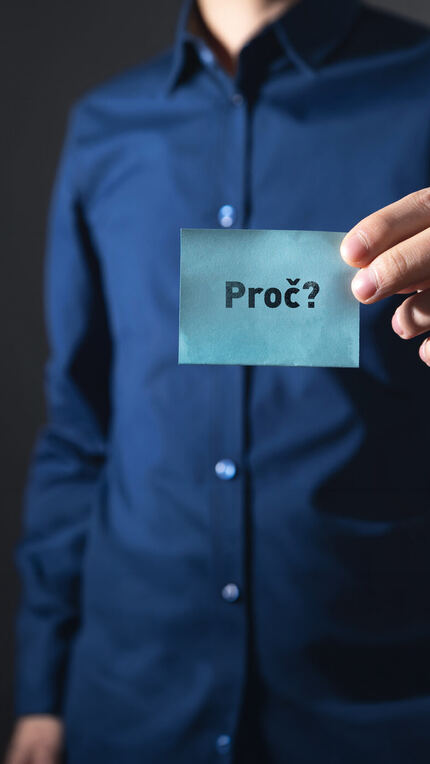
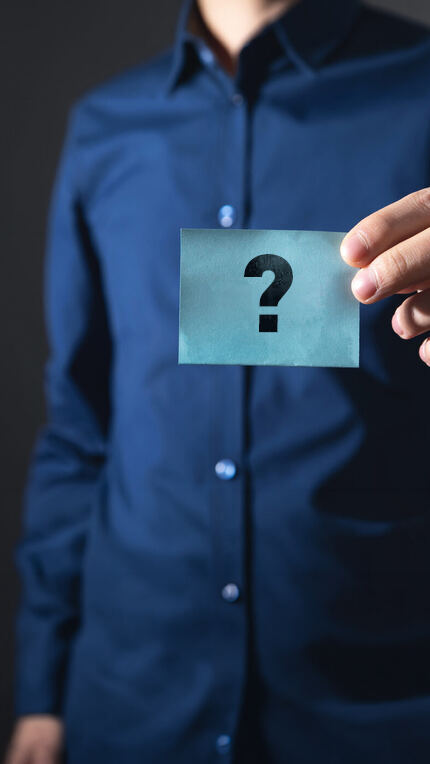
update: úpravy stránek, nové obrázky (komprimované)
- bidli, karierní-snídaně, manažer, podcasty: úpravy obsahu stránek
- ZdrojeKlientu.tsx: úpravy komponenty
- proc.jpg + proc-mobile.jpg: nahrazeny nové verze (komprimovány)
- podcast.jpg: nahrazena nová verze (komprimována)
- Patriot-img.svg: aktualizováno

Changed region(s): [[0.514, 0.3312, 0.7558, 0.4516]]

diff --git a/src/app/kariera/karierrni-snidane/page.tsx b/src/app/kariera/karierrni-snidane/page.tsx
@@ -34,7 +34,7 @@ const vyhody = [
   },
   {
     icon: faComments,
-    title: "Zeptej se na cokoliv",
+    title: "Zeptej se na cokoli",
     desc: "Kariérní růst, odměňování, kultura firmy – na kariérní snídani není špatná otázka.",
   },
 ];
@@ -51,7 +51,7 @@ export default async function KarierniSnidane() {
           { name: "Kariérní snídaně", url: "/kariera/karierrni-snidane" },
         ]),
         faqJsonLd([
-          { question: "Co je kariérní snídaně Bidli?", answer: "Neformální setkání u kávy, kde se zájemci o kariéru v Bidli mohou ptát na cokoliv — bez závazků, bez marketingových prezentací. Proběhne ve vašem městě." },
+          { question: "Co je kariérní snídaně Bidli?", answer: "Neformální setkání u kávy, kde se zájemci o kariéru v Bidli mohou ptát na cokoli — bez závazků, bez marketingových prezentací. Proběhne ve vašem městě." },
           { question: "Kolik kariérní snídaně stojí?", answer: "Kariérní snídaně Bidli je zcela zdarma. Stačí se registrovat a přijít." },
           { question: "Ve kterých městech probíhá kariérní snídaně?", answer: "Kariérní snídaně probíhají ve více městech po celé České republice — Praha, Brno, Ostrava, Pardubice a další. Aktuální termíny jsou k dispozici na webu." },
         ]),
@@ -61,7 +61,7 @@ export default async function KarierniSnidane() {
         label="Kariéra"
         title={<>Kariérní</>}
         titleAccent="snídaně"
-        subtitle="Přijď, posaď se, dej si kávu a zeptej se na cokoliv."
+        subtitle="Přijď, posaď se, dej si kávu a zeptej se na cokoli."
       >
         <a href="#prihlasit" className="btn-primary">
           Vybrat termín <FontAwesomeIcon icon={faArrowRight} />
@@ -86,7 +86,7 @@ export default async function KarierniSnidane() {
               <div className="absolute inset-0 bg-gradient-to-t from-[#0d1f32]/70 via-transparent to-transparent" />
               <div className="absolute bottom-6 left-6 right-6">
                 <p className="text-white font-black text-xl leading-tight">Přijď,<br />posaď se, dej si kávu.</p>
-                <p className="text-white/70 text-sm mt-2">Zeptej se na cokoliv.</p>
+                <p className="text-white/70 text-sm mt-2">Zeptej se na cokoli.</p>
               </div>
             </div>
 

diff --git a/src/app/kariera/manazer/page.tsx b/src/app/kariera/manazer/page.tsx
@@ -34,7 +34,7 @@ const features = [
   { icon: faHandshake, title: "Specializace\ns kompletní obsluhou klienta", desc: "Váš tým se může zaměřit na to, co umí nejlépe. Díky spolupráci s kolegy z jiných divizí klient dostane kompletní servis." },
   { icon: faUserPlus, title: "Moderní\nnáborová podpora", desc: "Nábor není jen na vás. Aktivně pomáháme s marketingovými kampaněmi, školením i adaptací nováčků." },
   { icon: faChartLine, title: "Minimum administrativy,\nmaximum obchodu", desc: "Analytické oddělení připraví finanční plány pro klienty vašeho týmu. Vy se věnujete lidem, obchodu a růstu." },
-  { icon: faCoins, title: "Férové\na transparentní odměny", desc: "Naše provize patří mezi nejvyšší na trhu. Vaši lidé u nás můžou vydělávat víc — za stejnou práci, s lepší podporou." },
+  { icon: faCoins, title: "Férové\na transparentní odměny", desc: "Naše provize patří mezi nejvyšší na trhu. Vaši lidé u nás mohou vydělávat víc — za stejnou práci, s lepší podporou." },
   { icon: faArrowUp, title: "Lídři rostou\ns firmou", desc: "Budujeme s manažery. Pokud máte ambice, otevíráme vám dveře k dalším kariérním krokům. Tady růst nekončí." },
 ];
 

diff --git a/src/components/ZdrojeKlientu.tsx b/src/components/ZdrojeKlientu.tsx
@@ -9,7 +9,7 @@ import type { IconDefinition } from "@fortawesome/fontawesome-svg-core";
 
 const zdroje: { icon: IconDefinition; label: string; sublabel: string }[] = [
   { icon: faDollarSign,  label: "Provize z crossellu",     sublabel: "ostatních divizí Bidli"        },
-  { icon: faCommentDots, label: "Poptávky klientů",         sublabel: "z klientské zóny"              },
+  { icon: faCommentDots, label: "Poptávky klientů",         sublabel: "z Klientské zóny"              },
   { icon: faDatabase,    label: "Databáze zájemců",         sublabel: "u realit"                      },
   { icon: faBullhorn,    label: "Marketingové kampaně",     sublabel: "na naše produkty"              },
 ];
@@ -39,7 +39,7 @@ export default function ZdrojeKlientu() {
           <div className="divider-sky mx-auto" />
           <h2 className="text-3xl md:text-4xl font-black text-white mb-3">Zdroje klientů</h2>
           <p className="text-white/40 text-sm max-w-md mx-auto">
-            Více zdrojů, více příležitostí. Klienti přichází z více směrů najednou.
+            Více zdrojů, více příležitostí. Klienti přicházejí z více směrů najednou.
           </p>
         </div>
 

diff --git a/src/app/bidli/page.tsx b/src/app/bidli/page.tsx
@@ -70,7 +70,6 @@ const teamOther = [
   { name: "Dana Klimeschová", role: "Finanční ředitelka Bidli holding", img: "/img/Klimeschova2.jpg" },
   { name: "Daniel Klika", role: "Finanční analytik, tvorba finančních plánů", img: "/img/Klika2.jpg" },
   { name: "David Sybol", role: "Specialista produktové podpory a controllingu", img: "/img/Sybol2.jpg" },
-  { name: "Barbora Sýkorová", role: "Asistentka divize finance a poradenství", img: "/img/Sykorova2.jpg" },
   { name: "Miroslav Hrnčíř", role: "IT podpora", img: "/img/MHrncir2.jpg" },
 ];
 
@@ -96,7 +95,7 @@ const departments = [
     people: [
       { name: "Michael Šolín", role: "Marketingový ředitel", img: "/img/Solin2.jpg" },
       { name: "Lukáš Kroupa", role: "Marketingový manažer", img: "/img/kroupa2.jpg" },
-      { name: "Lukáš Zdráhal", role: "Marketingový specialista", img: "/img/Zdrahal2.jpg" },
+      { name: "Lukáš Zdrahal", role: "Marketingový specialista", img: "/img/Zdrahal2.jpg" },
       { name: "Lukáš Hrnčíř", role: "Grafický designer", img: "/img/Hrncir2.jpg" },
     ],
   },

diff --git a/src/app/podcasty/page.tsx b/src/app/podcasty/page.tsx
@@ -131,7 +131,7 @@ export default async function Podcasty() {
                 Podcast, který mluví<br />o věcech, na kterých záleží.
               </h2>
               <p className="text-white/60 text-sm mt-2 leading-relaxed">
-                Nové epizody vychází nárazově — sleduj nás na YouTube.
+                Nové epizody vycházejí nárazově — sleduj nás na YouTube.
               </p>
             </div>
 
